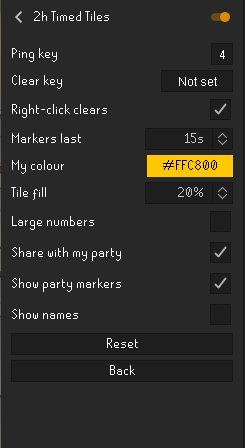
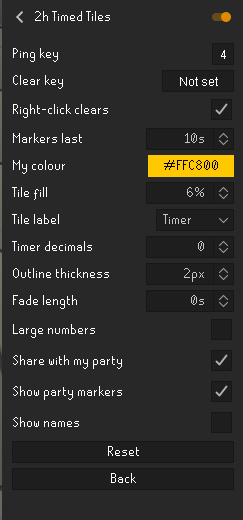
2h Timed Tiles 1.0.1 - Docs: the Hub page shows the new settings
The settings picture on the Hub page is a current screenshot with the four new settings.

diff --git a/README.md b/README.md
@@ -40,7 +40,7 @@
 
 <br>
 
-<img width="235" src="images/settings.png" alt="The plugin's settings in RuneLite: ping key, clear key, right-click clears, markers last, colour, tile fill, large numbers, sharing and names">
+<img width="235" src="images/settings.png" alt="The plugin's settings in RuneLite: ping key, clear key, right-click clears, markers last, colour, tile fill, tile label, timer decimals, outline thickness, fade length, large numbers, sharing and names">
 
 </td>
 </tr>
